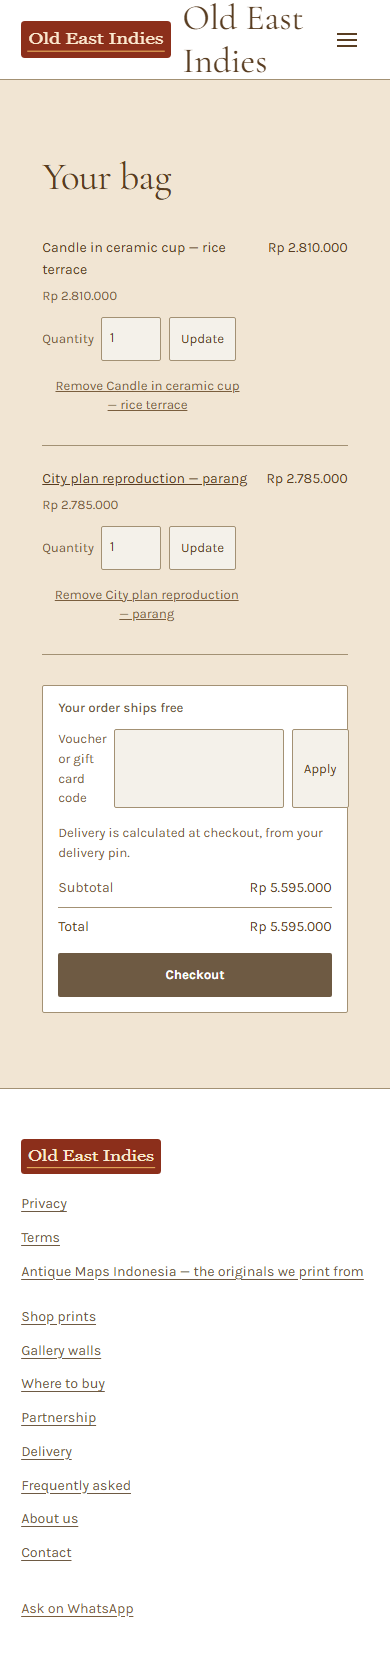
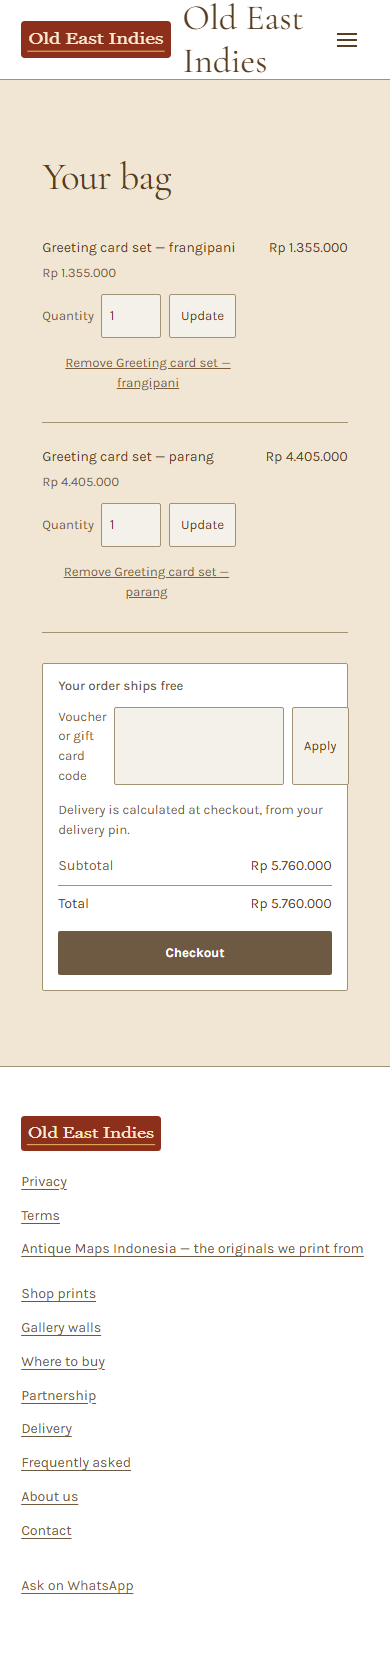
fix(tests): 7.4 shop-fulfilment gate — scope WhatsApp/store-name locators off the bare footer
The tracking page's "Ask on WhatsApp" link is ambiguous against the footer's own copy —
scope to `main`. The order view has no `main` landmark, so the store line is read off the
first paragraph following the "#<number>" heading instead of a `main p` locator that never
resolved. All 5 steps pass locally when the shared dev Postgres is healthy; screenshots
updated through step 5 (owner reassignment).

diff --git a/tests/e2e/shop-fulfilment/flow.spec.ts b/tests/e2e/shop-fulfilment/flow.spec.ts
@@ -197,7 +197,8 @@ test.describe.serial('the shop fulfilment gate (7.4.a)', () => {
     await expect(storeHeading).toBeVisible()
     const storeLine = await storeHeading.locator('xpath=following-sibling::p[1]').innerText()
     expect(storeLine.trim().length, 'the store name shown on tracking').toBeGreaterThan(0)
-    await expect(page.getByRole('link', { name: 'Ask on WhatsApp' })).toBeVisible()
+    // Scoped to `main` — the footer carries its own, generic "Ask on WhatsApp" link.
+    await expect(page.locator('main').getByRole('link', { name: 'Ask on WhatsApp' })).toBeVisible()
     await shoot(page, 'tracking-delivered-390')
     await axeClean(page, 'tracking page, delivered, at 390px')
     await page.setViewportSize(WIDTHS[1])
@@ -239,7 +240,10 @@ test.describe.serial('the shop fulfilment gate (7.4.a)', () => {
 
     await signInAs(page, accounts.owner.email, accounts.owner.password)
     await openOrderByNumber(page, order2.numberText)
-    const storeLineBefore = await page.locator('main p').first().innerText()
+    // The order view has no `main` landmark — the first paragraph after the "#<number>" heading
+    // names the store.
+    const orderHeading = page.getByRole('heading', { name: /^#/ })
+    const storeLineBefore = await orderHeading.locator('xpath=following::p[1]').innerText()
 
     await page.getByRole('link', { name: /^Reassign$/ }).click()
     const select = page.getByLabel(/Send to store/)
@@ -261,7 +265,7 @@ test.describe.serial('the shop fulfilment gate (7.4.a)', () => {
       )
     } else {
       await expect(page.locator('[data-sonner-toast][data-type="error"]')).toHaveCount(0)
-      const storeLineAfter = await page.locator('main p').first().innerText()
+      const storeLineAfter = await orderHeading.locator('xpath=following::p[1]').innerText()
       expect(storeLineAfter, 'the store shown on the order changed').not.toBe(storeLineBefore)
     }
   })
